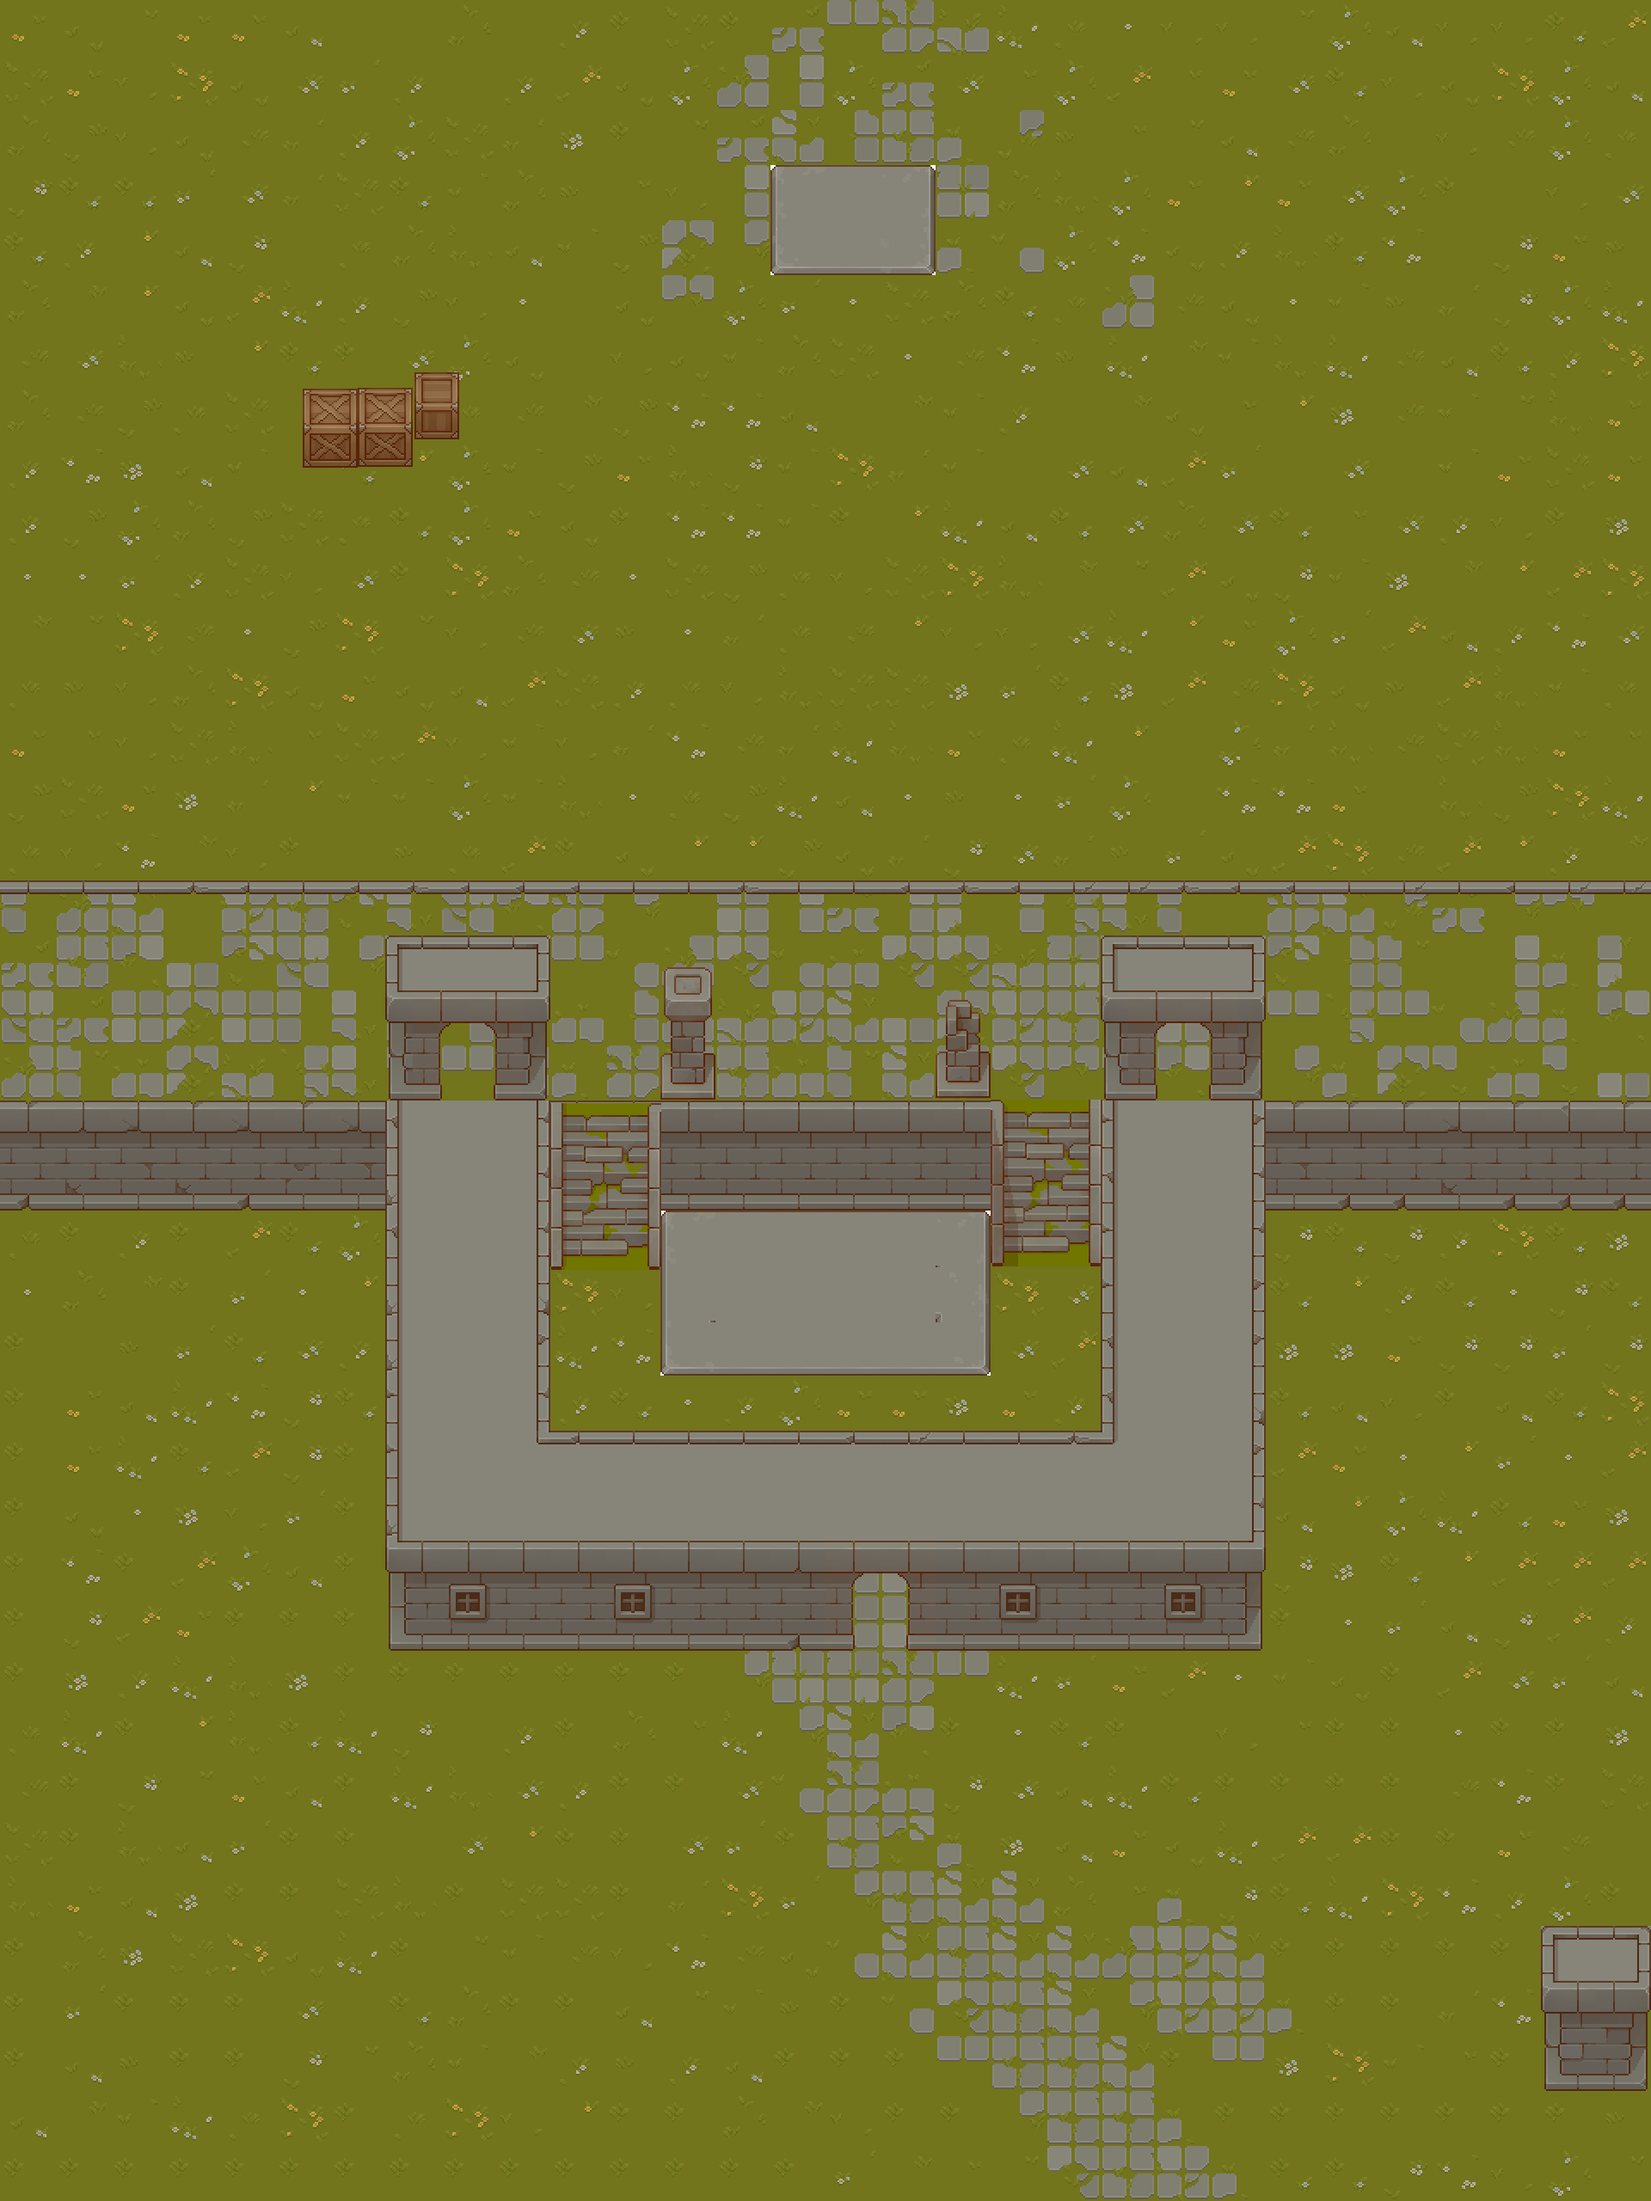
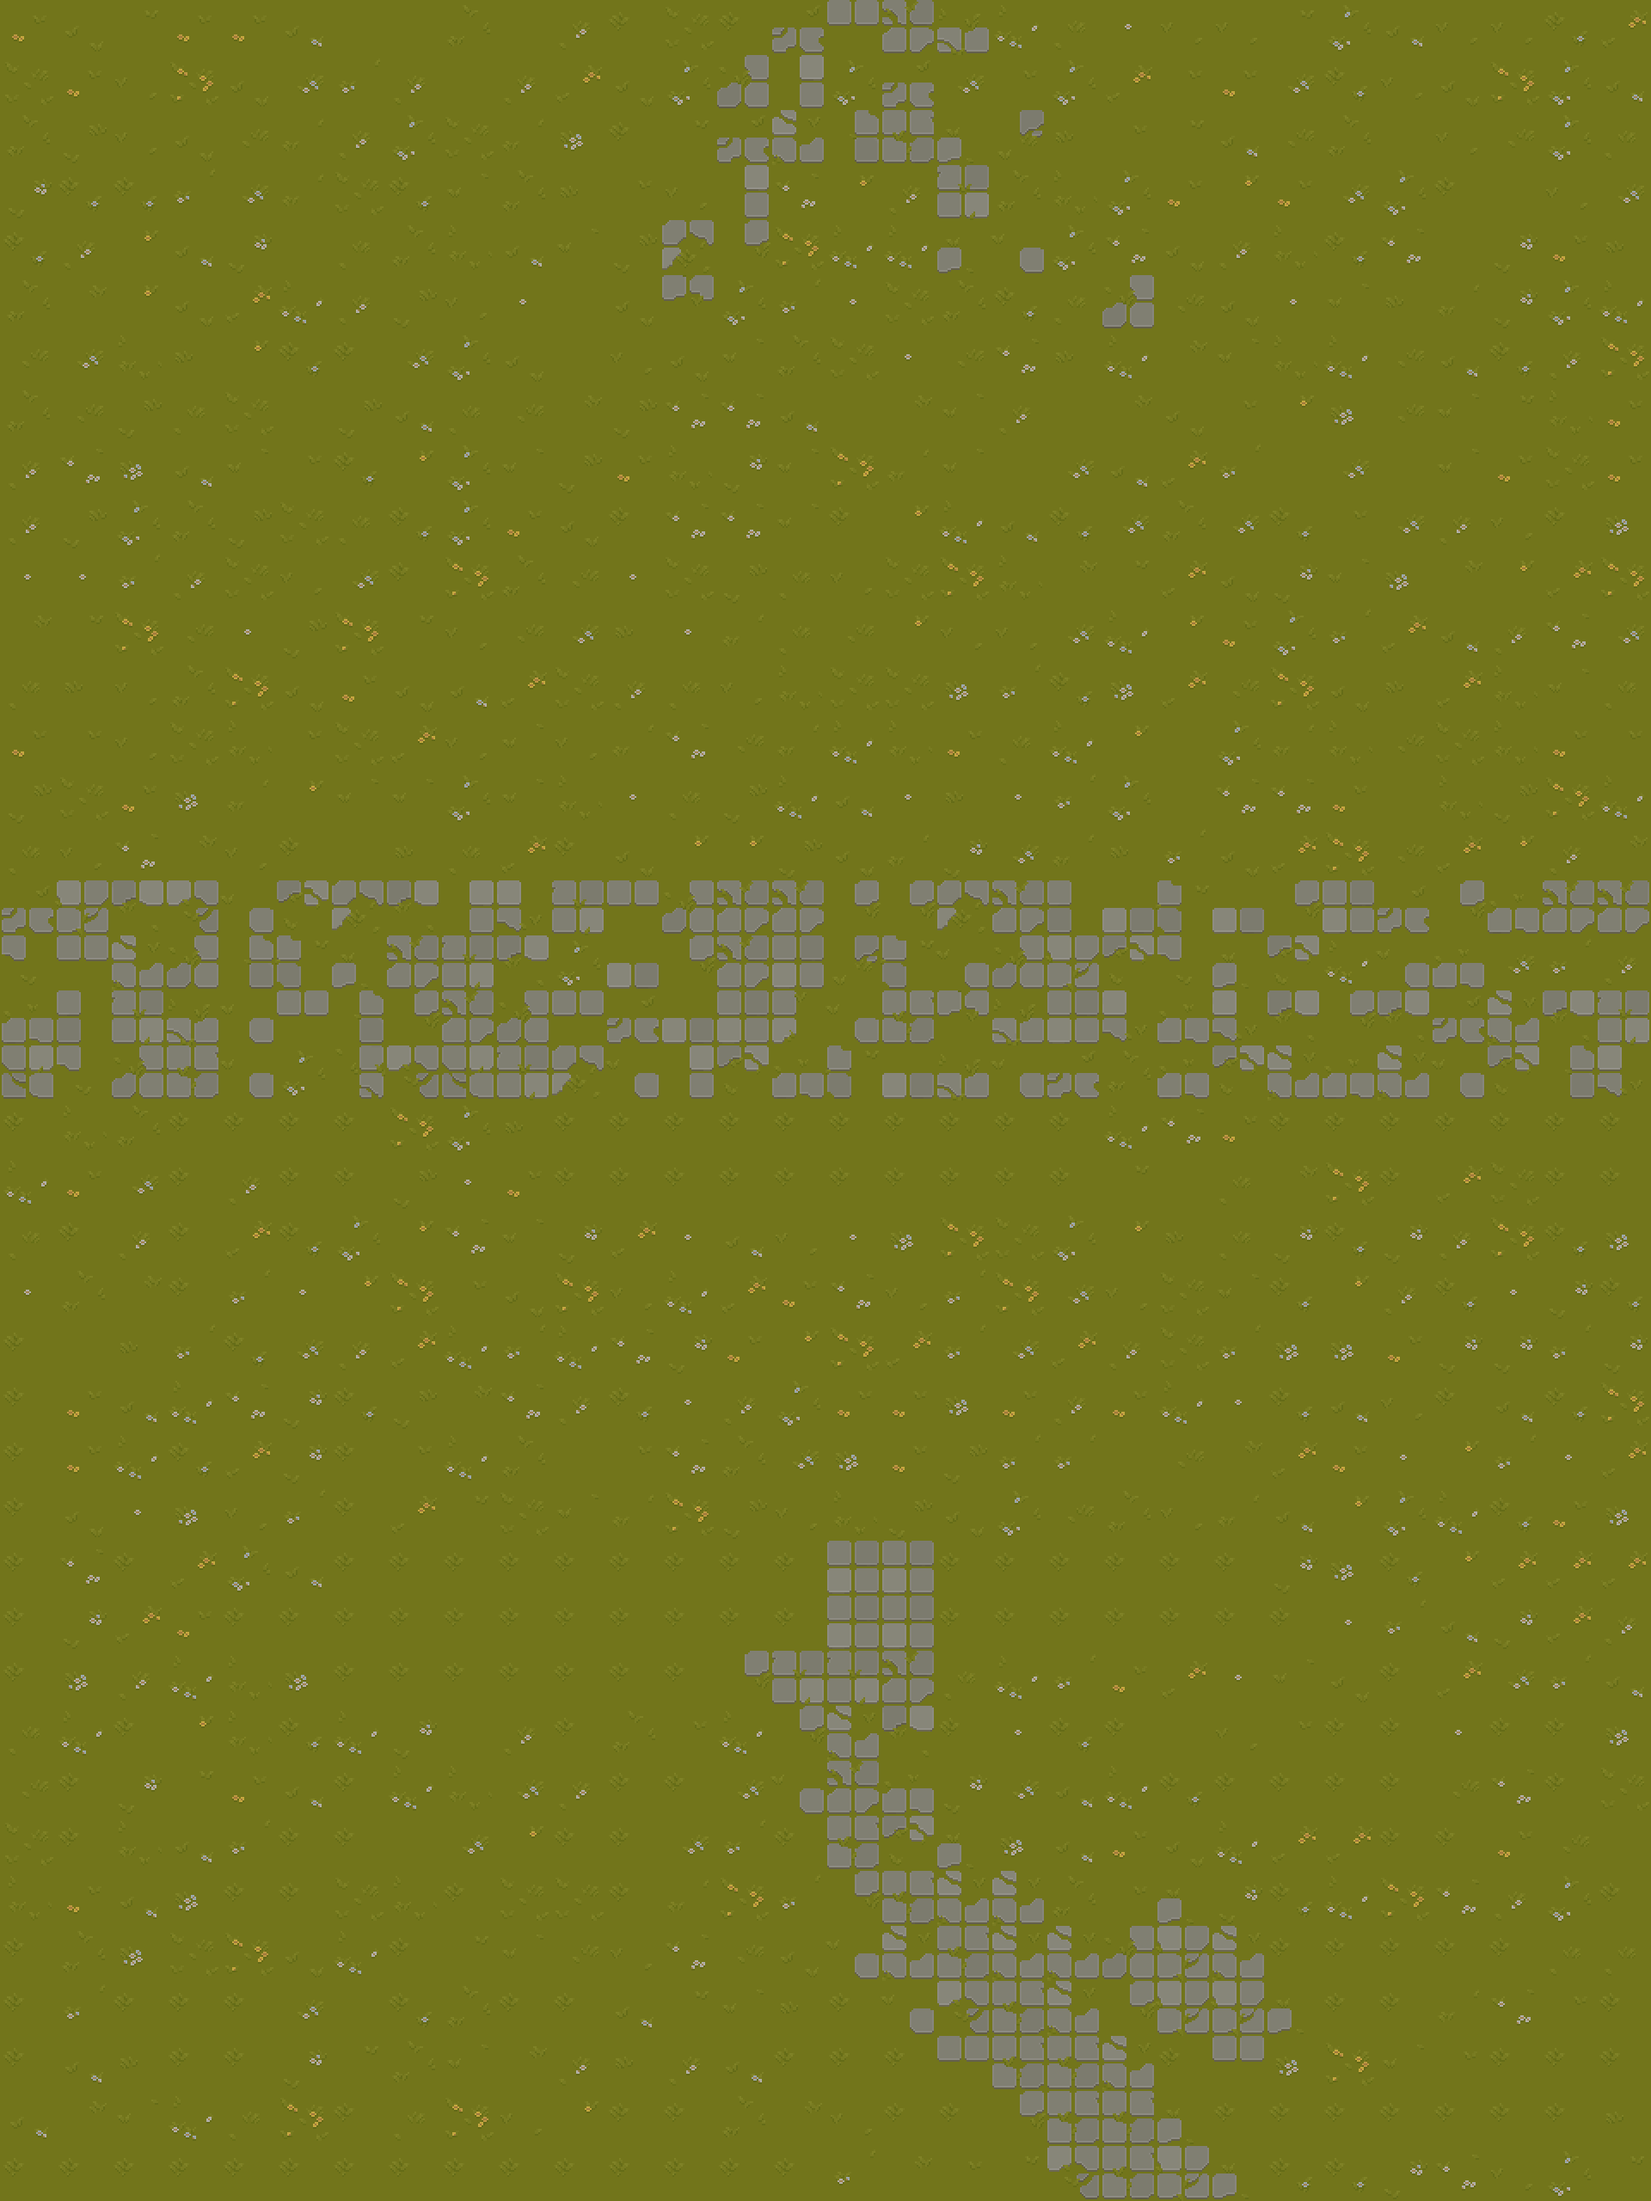
the map updated, added new classes for walls and roofs

diff --git a/code/level.py b/code/level.py
@@ -3,7 +3,7 @@ from pytmx.util_pygame import load_pygame
 
 from settings import *
 from player import Player
-from sprites import Generic, Tree
+from sprites import Generic, Tree, Wall
 
 
 class Level:
@@ -17,10 +17,6 @@ class Level:
 
     def setup(self):
         tmx_data = load_pygame('../data/game_map.tmx')
-
-        # first_layer = tmx_data.layers[0]
-        # for tile in first_layer.tiles():
-        #     self.display_surface.blit(tile[2], (tile[0] * TILE_SIZE, tile[1] * TILE_SIZE))
         Generic(
             pos=(0, 0),
             surf=pygame.image.load('../data/game_map.png'),
@@ -38,6 +34,18 @@ class Level:
                  surf=obj.image,
                  groups=self.all_sprites,
                  z='Main',
+                 size_difference=size_difference)
+        for x, y, surf in tmx_data.get_layer_by_name('Walls').tiles():
+            Wall(pos=(x, y),
+                 surf=surf,
+                 groups=self.all_sprites,
+                 z='Walls',
+                 size_difference=size_difference)
+        for x, y, surf in tmx_data.get_layer_by_name('Roof_1').tiles():
+            Wall(pos=(x, y),
+                 surf=surf,
+                 groups=self.all_sprites,
+                 z='Roof',
                  size_difference=size_difference)
 
     def run(self, dt):
@@ -71,20 +79,14 @@ class CameraGroup(pygame.sprite.Group):
 
     def custom_draw(self, player):
         self.border_camera(player)
-        offset_text = self.font.render(f'{self.offset}', True, 'green')
-        self.display_surface.blit(offset_text, (10, 10))
         for layer in LAYERS.values():
-            for sprite in self.sprites():
-                if sprite.z == layer:
+            for sprite in sorted(self.sprites(), key=lambda sprite: sprite.rect.y):
+                if sprite.rect.colliderect(player.line_of_sight) and sprite.z == layer:
                     offset_rect = sprite.rect.copy()
                     offset_rect.center -= self.offset
-
                     self.display_surface.blit(sprite.image, offset_rect)
                     if DEBUG:
-                        # if sprite.z == 'Ground':
-                        #     offset_text = self.font.render(f'{offset_rect.center}', True, 'green')
-                        #     self.display_surface.blit(offset_text, (10, 10))
                         if isinstance(sprite, Player):
                             text = self.font.render(f'{player.rect.center}', True, 'green')
                             self.display_surface.blit(text, offset_rect)
-                        pygame.draw.rect(self.display_surface, 'red', offset_rect, 2)
+                        # pygame.draw.rect(self.display_surface, 'red', offset_rect, 2)

diff --git a/code/sprites.py b/code/sprites.py
@@ -5,15 +5,32 @@ from settings import *
 class Generic(pygame.sprite.Sprite):
     def __init__(self, pos, surf, groups, z='Main'):
         super().__init__(groups)
+
         self.image = surf
+        self.pos = pos
         self.rect = self.image.get_rect(topleft=pos)
         self.z = LAYERS[z]
 
 
 class Tree(Generic):
     def __init__(self, pos, surf, groups, z, size_difference):
-        
         size = surf.get_size()
-        surf = pygame.transform.scale(surf, (size[0]*size_difference[0], size[1]*size_difference[1]))
-        pos = [pos[i]*size_difference[i] for i in range(2)]
-        super().__init__(pos, surf, groups)
+        surf = pygame.transform.scale(surf, (size[0] * size_difference[0], size[1] * size_difference[1]))
+        pos = [pos[i] * size_difference[i] for i in range(2)]
+        super().__init__(pos, surf, groups, z)
+
+
+class Wall(Generic):
+    def __init__(self, pos, surf, groups, z, size_difference):
+        size = surf.get_size()
+        surf = pygame.transform.scale(surf, (size[0] * size_difference[0], size[1] * size_difference[1]))
+        pos = [pos[i] * size_difference[i] * TILE_SIZE for i in range(2)]
+        super().__init__(pos, surf, groups, z)
+
+
+class Roof(Generic):
+    def __init__(self, pos, surf,  groups, z, size_difference):
+        size = surf.get_size()
+        surf = pygame.transform.scale(surf, (size[0] * size_difference[0], size[1] * size_difference[1]))
+        pos = [pos[i] * size_difference[i]*TILE_SIZE for i in range(2)]
+        super().__init__(pos, surf, groups, z)

diff --git a/code/player.py b/code/player.py
@@ -8,8 +8,9 @@ class Player(pygame.sprite.Sprite):
         self.pos = pygame.math.Vector2(pos)
         self.image = pygame.image.load('../data/objects/small_box.png')
         self.rect = self.image.get_rect(center=self.pos)
+        self.line_of_sight = self.rect.copy().inflate((SCREEN_WIDTH*2, SCREEN_HEIGHT*2))
 
-        self.z = LAYERS['Main']
+        self.z = LAYERS['Ground']
 
         self.direction = pygame.math.Vector2()
         self.speed = 200
@@ -40,6 +41,7 @@ class Player(pygame.sprite.Sprite):
         self.pos.y += self.direction.y * dt * self.speed
 
         self.rect.center = (round(self.pos.x), round(self.pos.y))
+        self.line_of_sight.center = (round(self.pos.x), round(self.pos.y))
 
     def update(self, dt):
         self.input()

diff --git a/code/settings.py b/code/settings.py
@@ -7,7 +7,7 @@ TILE_SIZE = 32
 
 LAYERS = {
     'Ground': 0,
-    'Main': 1,
+    'Roof': 1,
     'Walls': 2,
-    'Roof': 3,
+    'Main': 3
 }
